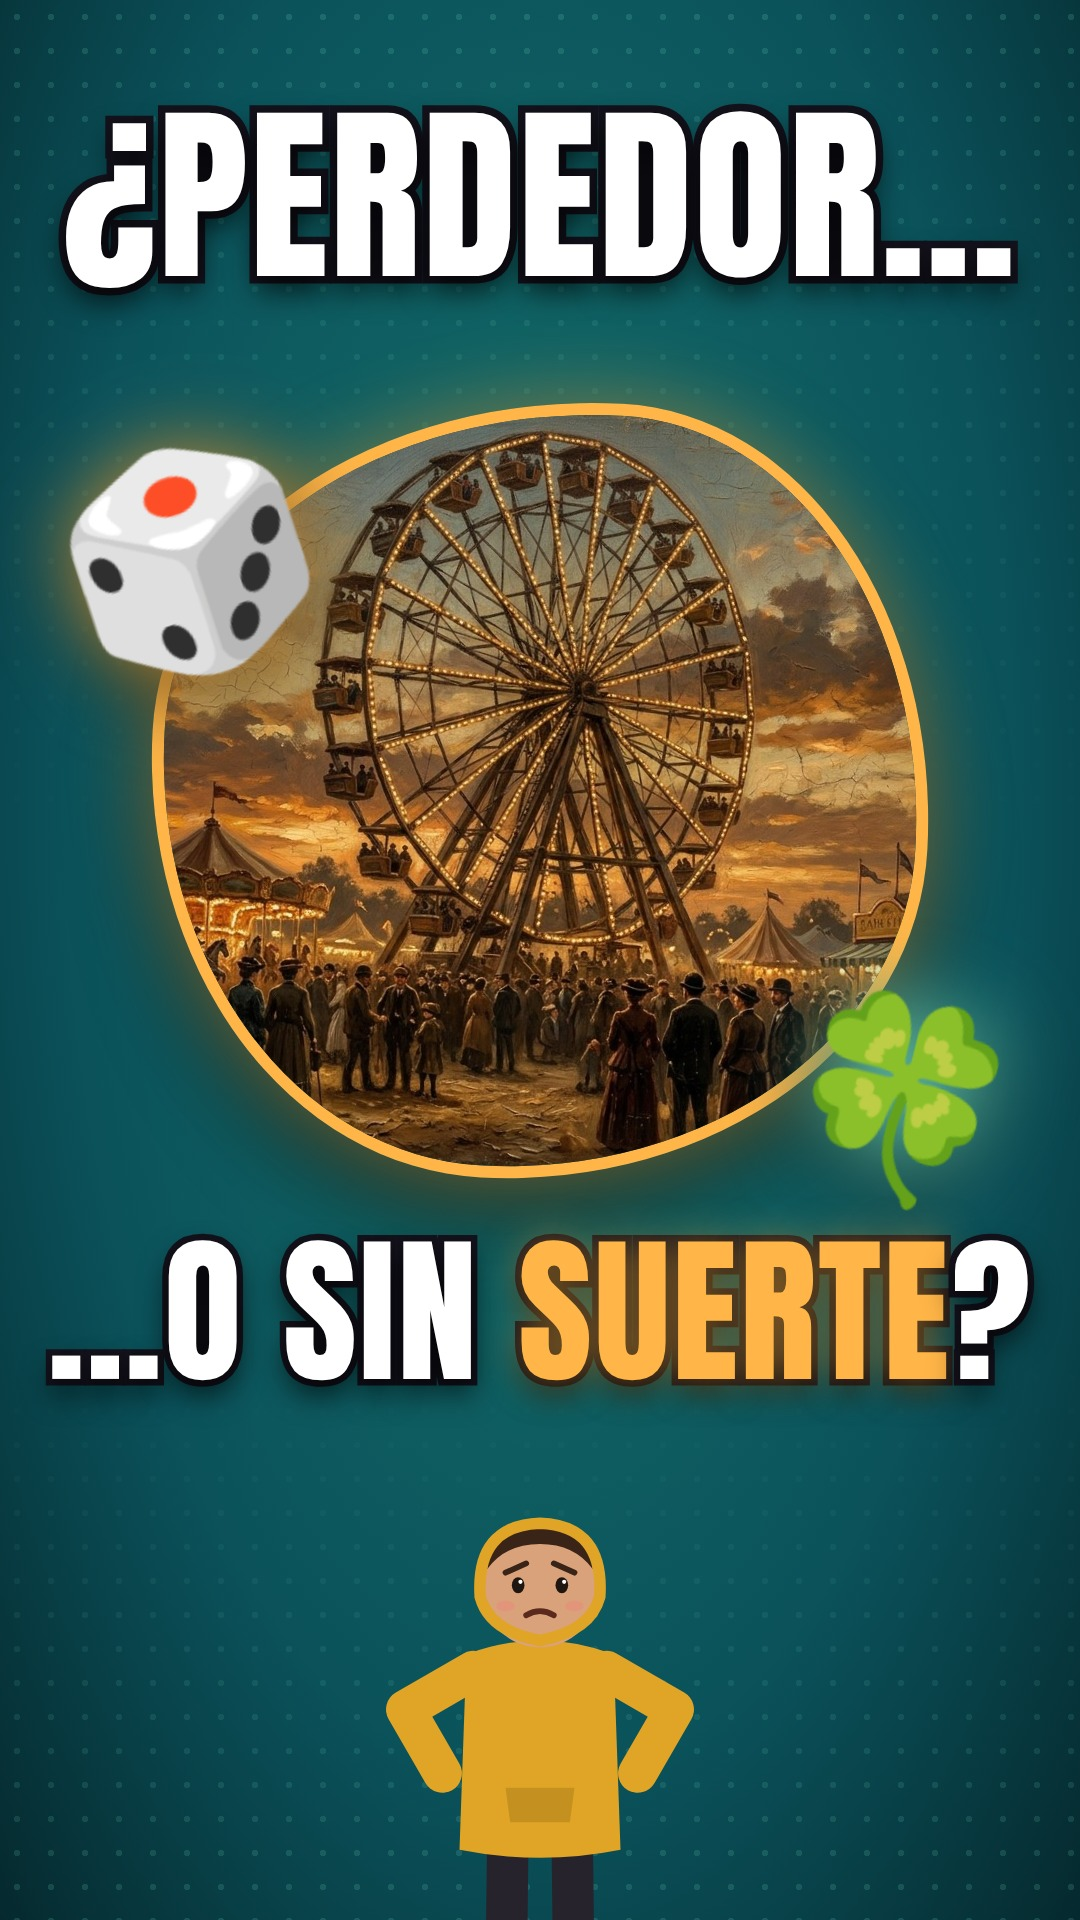
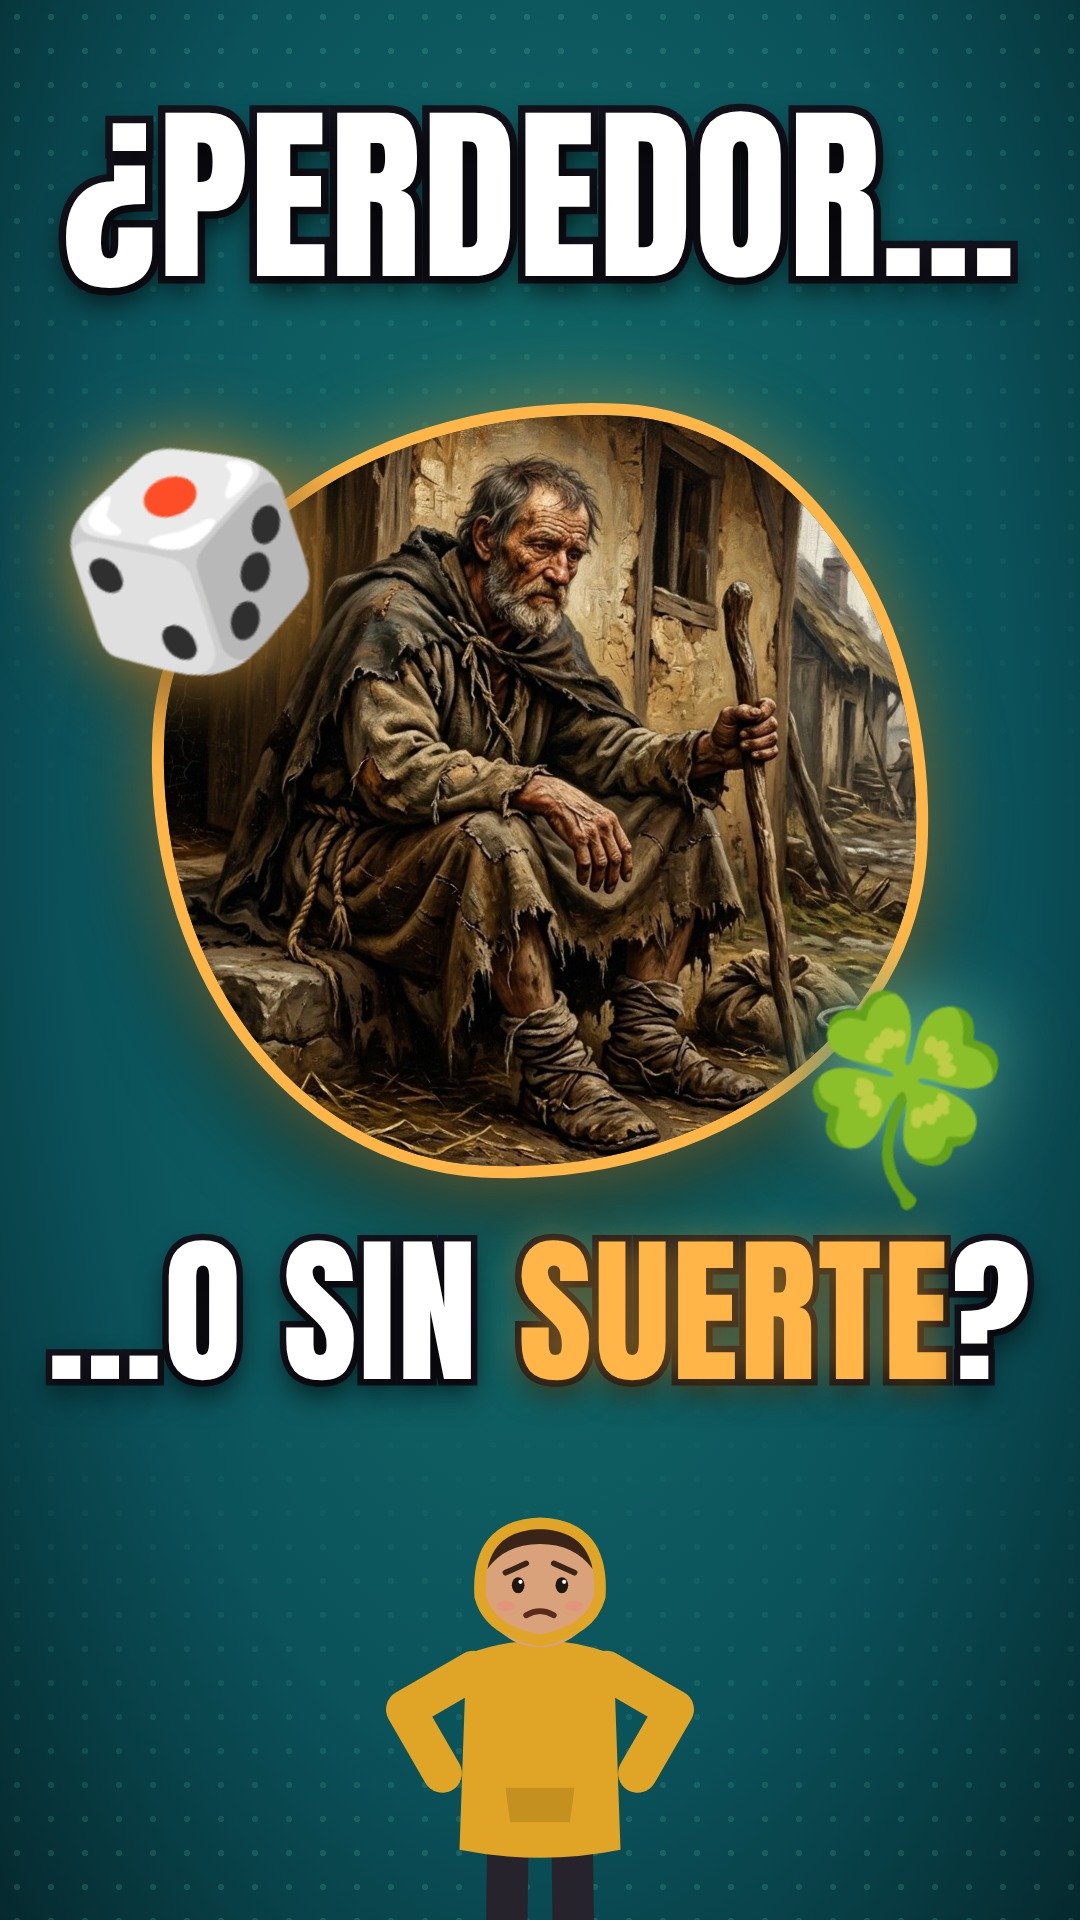
Video 5: cambios de la revisión del creador (recursos nuevos, efectos parejos, fondos sin amarillo detrás de «Tú»)
Claude-Session: https://claude.ai/code/session_01SpKRvRHgkYxyAMdM2ogfpw

Changed region(s): [[0.1528, 0.2188, 0.8556, 0.625]]

diff --git a/scripts/dedicas/estilo.py b/scripts/dedicas/estilo.py
@@ -181,3 +181,50 @@ def check(scenes):
                 if contrast('#FFFFFF', bg['c2']) < 3: errs.append(f"escena {s['n']}: poco contraste texto/fondo ({bg['c2']})")
     if errs:
         sys.exit('Reglas de edición rotas:\n  ' + '\n  '.join(errs))
+
+
+# ── Ajustes pedidos por el creador al revisar el video 5 (noviembre 2026) ──
+# 1) Nada de tratamientos que cambian el color solo en parte de la imagen (blanco y negro con acento, duotono):
+#    se cambian por tratamientos que se ven parejos en toda la imagen.
+# 2) El fondo de las escenas con «Tú» no puede ser amarillo/naranja, porque se confunde con su sudadera mostaza.
+PARTIAL = {'bwaccent', 'duotone'}
+UNIFORM_FULL = ['glow', 'vignette', 'grain']
+UNIFORM_CARD = ['glow', 'shadowBorder', 'grain']
+YELLOWISH = {'limon', 'oxido', 'durazno'}
+PERSON_OK = ['cielo', 'lavanda', 'violeta', 'petroleo', 'bosque', 'ciruela']  # sin tonos amarillos (menta y salvia traen amarillo claro)
+
+def _pal(c1):
+    for d in (LIGHT, DARK):
+        for k, v in d.items():
+            if v[0] == c1: return k
+    return None
+
+def ajustar(scenes):
+    k = 0
+    for s in scenes:
+        for m in s['media']:
+            tr = (m.get('fx') or {}).get('treat') or []
+            if any(t in PARTIAL for t in tr):
+                pool = UNIFORM_FULL if s['layout'] == 'full' else UNIFORM_CARD
+                new = []
+                for t in tr:
+                    if t in PARTIAL:
+                        while pool[k % len(pool)] in tr or pool[k % len(pool)] in new: k += 1
+                        t = pool[k % len(pool)]; k += 1
+                    new.append(t)
+                m['fx']['treat'] = new
+    r = 0
+    for i, s in enumerate(scenes):
+        if s.get('person') and s['layout'] != 'full' and _pal(s['bg']['c1']) in YELLOWISH:
+            near = {scenes[j]['bg']['c1'] for j in (i - 1, i + 1) if 0 <= j < len(scenes)}
+            order = PERSON_OK[r % len(PERSON_OK):] + PERSON_OK[:r % len(PERSON_OK)]
+            name = next(n for n in order if (LIGHT.get(n) or DARK.get(n))[0] not in near)
+            r += 1
+            set_bg(s, name)
+    return scenes
+
+def set_bg(s, name, btype=None):
+    c1, c2, c3 = LIGHT.get(name) or DARK.get(name)
+    light = name in LIGHT
+    s['bg'] = dict(type=btype or s['bg']['type'], c1=c1, c2=c2, c3=c3, light=light)
+    s['acc'] = dict(ACC_LIGHT if light else ACC_DARK)

diff --git a/scripts/dedicas/viz.py b/scripts/dedicas/viz.py
@@ -167,8 +167,31 @@ def build():
     estilo.assign(out, emos)
     for s in out:  # la transición no puede durar más de la mitad de las escenas que une
         s['tr']['dur'] = round(min(s['tr']['dur'], max(0.3, (s['end'] - s['start']) * 0.45)), 2)
+    estilo.ajustar(out)
+    revision_creador(out)
     estilo.check(out)
     return out
+
+def foto(name):
+    from PIL import Image
+    w_, h_ = Image.open(os.path.join(ROOT, 'public', 'dedicas', 'fotos', name + '.jpg')).size
+    return dict(t='f', src=f'dedicas/fotos/{name}.jpg', ar=round(w_ / h_, 3))
+
+def revision_creador(out):
+    """Cambios que pidió el creador al revisar el video (26 nov 2026). Solo tocan estas escenas."""
+    S = {s['n']: s for s in out}
+    # 1:12 · «si te acaban de despedir»: la caja de cartón no se entendía → puerta de salida
+    S[23]['icons'] = [dict(i, e='🚪') if i.get('e') == '📦' else i for i in S[23]['icons']]
+    # 4:14 · la diosa Fortuna: su imagen (la puso el creador) en tarjeta, sobre su propia imagen desenfocada en tono vino
+    s = S[73]
+    s.update(tipo='FOTO', icons=[], layout='card', media=[dict(foto('foto_diosa_fortuna'), fx={'in': 'zoomPoint', 'keep': 'kenburns', 'treat': ['glow', 'shadowBorder'], 'shape': 'rounded'})])
+    estilo.set_bg(s, 'vino', 'blurmedia')
+    # 4:22 · «perdedores»: la foto del creador en lugar de la «L»
+    s = S[75]
+    s.update(tipo='FOTO', icons=[], layout='full', media=[dict(foto('foto_perdedores'), fx={'in': 'mask', 'keep': 'kenburns', 'treat': ['vignette'], 'shape': 'rounded'})])
+    s['bg'] = dict(type='media', c1='#000000', c2='#000000', c3='#000000', light=False); s['acc'] = dict(estilo.ACC_DARK)
+    # 5:05 · otro fondo para «Tú» con la mano en el pecho
+    estilo.set_bg(S[88], 'lavanda', 'grid')
 
 if __name__ == '__main__':
     out = build()

diff --git a/scripts/dedicas/viz_shorts.py b/scripts/dedicas/viz_shorts.py
@@ -53,7 +53,7 @@ SH = {
    ('entonces también crees que los de abajo', 'VIDEO', [V('escena_067')], [], None, []),
    ('Esa es la trampa de la meritocracia', 'VIDEO', [V('escena_059')], [], None, []),
    ('En la Inglaterra medieval', 'FOTO', [F('foto_072')], [], None, []),
-   ('Hoy les decimos perdedores', 'ÍCONOS', [], I('perdedor'), None, []),
+   ('Hoy les decimos perdedores', 'FOTO', [F('foto_perdedores')], [], None, []),
    ('Intenta decir en una entrevista', 'VIDEO', [V('escena_077')], [], None, []),
    ('La suerte sigue contando', 'VIDEO', [V('escena_087')], I('dado'), None, []),
    ('Así que no trates a nadie', '2D', [], [], P('mano en el pecho'), []),
@@ -109,6 +109,7 @@ def build(n):
     estilo.assign(scenes, emos, vertical=True)
     for s in scenes:
         s['tr']['dur'] = round(min(s['tr']['dur'], max(0.3, (s['end'] - s['start']) * 0.45)), 2)
+    estilo.ajustar(scenes)  # cambios que pidió el creador al revisar el video 5
     estilo.check(scenes)
     # Subtítulos: las palabras exactas del guion del short con los tiempos de la transcripción
     script = re.sub(r'\[[^\]]*\]', ' ', raw).split()

diff --git a/entregas/05-a-que-te-dedicas/video/PENDIENTES.md b/entregas/05-a-que-te-dedicas/video/PENDIENTES.md
@@ -35,11 +35,34 @@
 - **Descripción:** Si todo fuera mérito, la pobreza sería culpa de quien la vive 😶 Spoiler: la suerte también cuenta, y mucho 🎲 #Meritocracia #Sociedad #Psicologia #Shorts
 - **Miniatura:** `short_03_miniatura.jpg`. La Rueda de la Fortuna con forma orgánica, el dado y el trébol, «¿PERDEDOR… / …O SIN SUERTE?» y «Tú» preocupado, sobre fondo petróleo.
 
+## Cambios después de tu revisión (26 nov)
+
+**Video largo**
+- **Recursos nuevos que subiste:**
+  - `escena_006 new` en lugar del clip anterior (0:08);
+  - `foto_072 new` en «desafortunados» (4:09);
+  - `diosa fortuna new` en lugar del ícono de la rueda (4:14), en tarjeta sobre la misma imagen desenfocada en tono vino; ya no lleva el fondo lila;
+  - `perdedores new` en lugar de las «L» (4:22).
+- **1:12:** en «si te acaban de despedir», la caja de cartón cambió por una puerta de salida 🚪, junto al maletín.
+- **Efecto de color:** ya no uso el blanco y negro con un toque de color ni el duotono. En su lugar van efectos parejos en toda la imagen: brillo suave, viñeta o grano. Cambió en todas las escenas donde estaban:
+  - las que marcaste: 1:20, 1:38, 2:12, 2:27, 3:37, 3:49, 4:00, 4:18, 4:26 y 5:48;
+  - y dos más con el mismo efecto: 2:10 (el corazón de neón) y 3:40.
+- **Fondos detrás de «Tú»:** ya no son amarillos ni naranjas, para que no se confundan con su sudadera. Ahora van en morado, azul petróleo, verde bosque o lila:
+  - las que marcaste: 2:22, 4:07 y 6:25;
+  - y dos más con el mismo problema: 1:41 y 5:58.
+- **5:05:** fondo nuevo en lila con cuadrícula.
+
+**Shorts**
+- Los mismos cambios donde aplicaban:
+  - short 3: la foto de «perdedores» en lugar de la «L», y la nueva `foto_072` en «la Inglaterra medieval»;
+  - en los 3: efectos de color parejos y fondos sin amarillo detrás de «Tú».
+- La miniatura del short 3 ahora usa la nueva `foto_072`.
+
 ## Lo que se cumplió de las reglas del canal
 
 - **Voz:** la de siempre (ElevenLabs, BRIAN CM, `eleven_v4`). Es lo único que suena: sin música ni efectos.
 - **Ritmo y emociones (primer video con la regla nueva):** las marcas del guion se convirtieron en etiquetas de ElevenLabs. La voz cambia de velocidad y de emoción: tenso, irónico, triste, sorprendido, alegre… El detalle está en `audio/05-a-que-te-dedicas/LEEME.md`.
-- **Tus recursos:** usé los 34 videos y las 16 fotos que subiste, todos con su nombre de la lista y en su escena. No faltó ninguno.
+- **Tus recursos:** usé los 34 videos y las 16 fotos que subiste, más las 4 versiones nuevas, todos en su escena. No faltó ninguno.
 - **Íconos y textos (los hago yo):**
   - 40 íconos: 39 emojis de Noto (licencia libre) y uno dibujado en SVG (la «L» de perdedor);
   - 38 textos en pantalla en Anton, con acento ámbar `#FFB547` o rojo `#FF2E2E`;
@@ -63,7 +86,7 @@ Las revisa automáticamente `scripts/dedicas/estilo.py`; el plan no se genera si
   - la escena que sale y la que entra se solapan.
 - **Efectos en imágenes:**
   - cada foto y clip tiene un efecto de entrada (máscara, zoom desde un punto, rebote, de borroso a nítido, bloques, polaroid, apertura con forma) y uno de permanencia (Ken Burns, parallax, flotación, rotación sutil, respiración);
-  - máximo 2 tratamientos por imagen (duotono, grano, viñeta, glow, aberración cromática, semitono, blanco y negro con acento, sombra);
+  - máximo 2 tratamientos por imagen, todos parejos en toda la imagen (grano, viñeta, brillo suave, aberración cromática, semitono, sombra);
   - de vez en cuando un efecto especial (partículas, destello, light leak, brillo que barre la imagen).
 - **Shorts:** las mismas reglas, en vertical.
 
